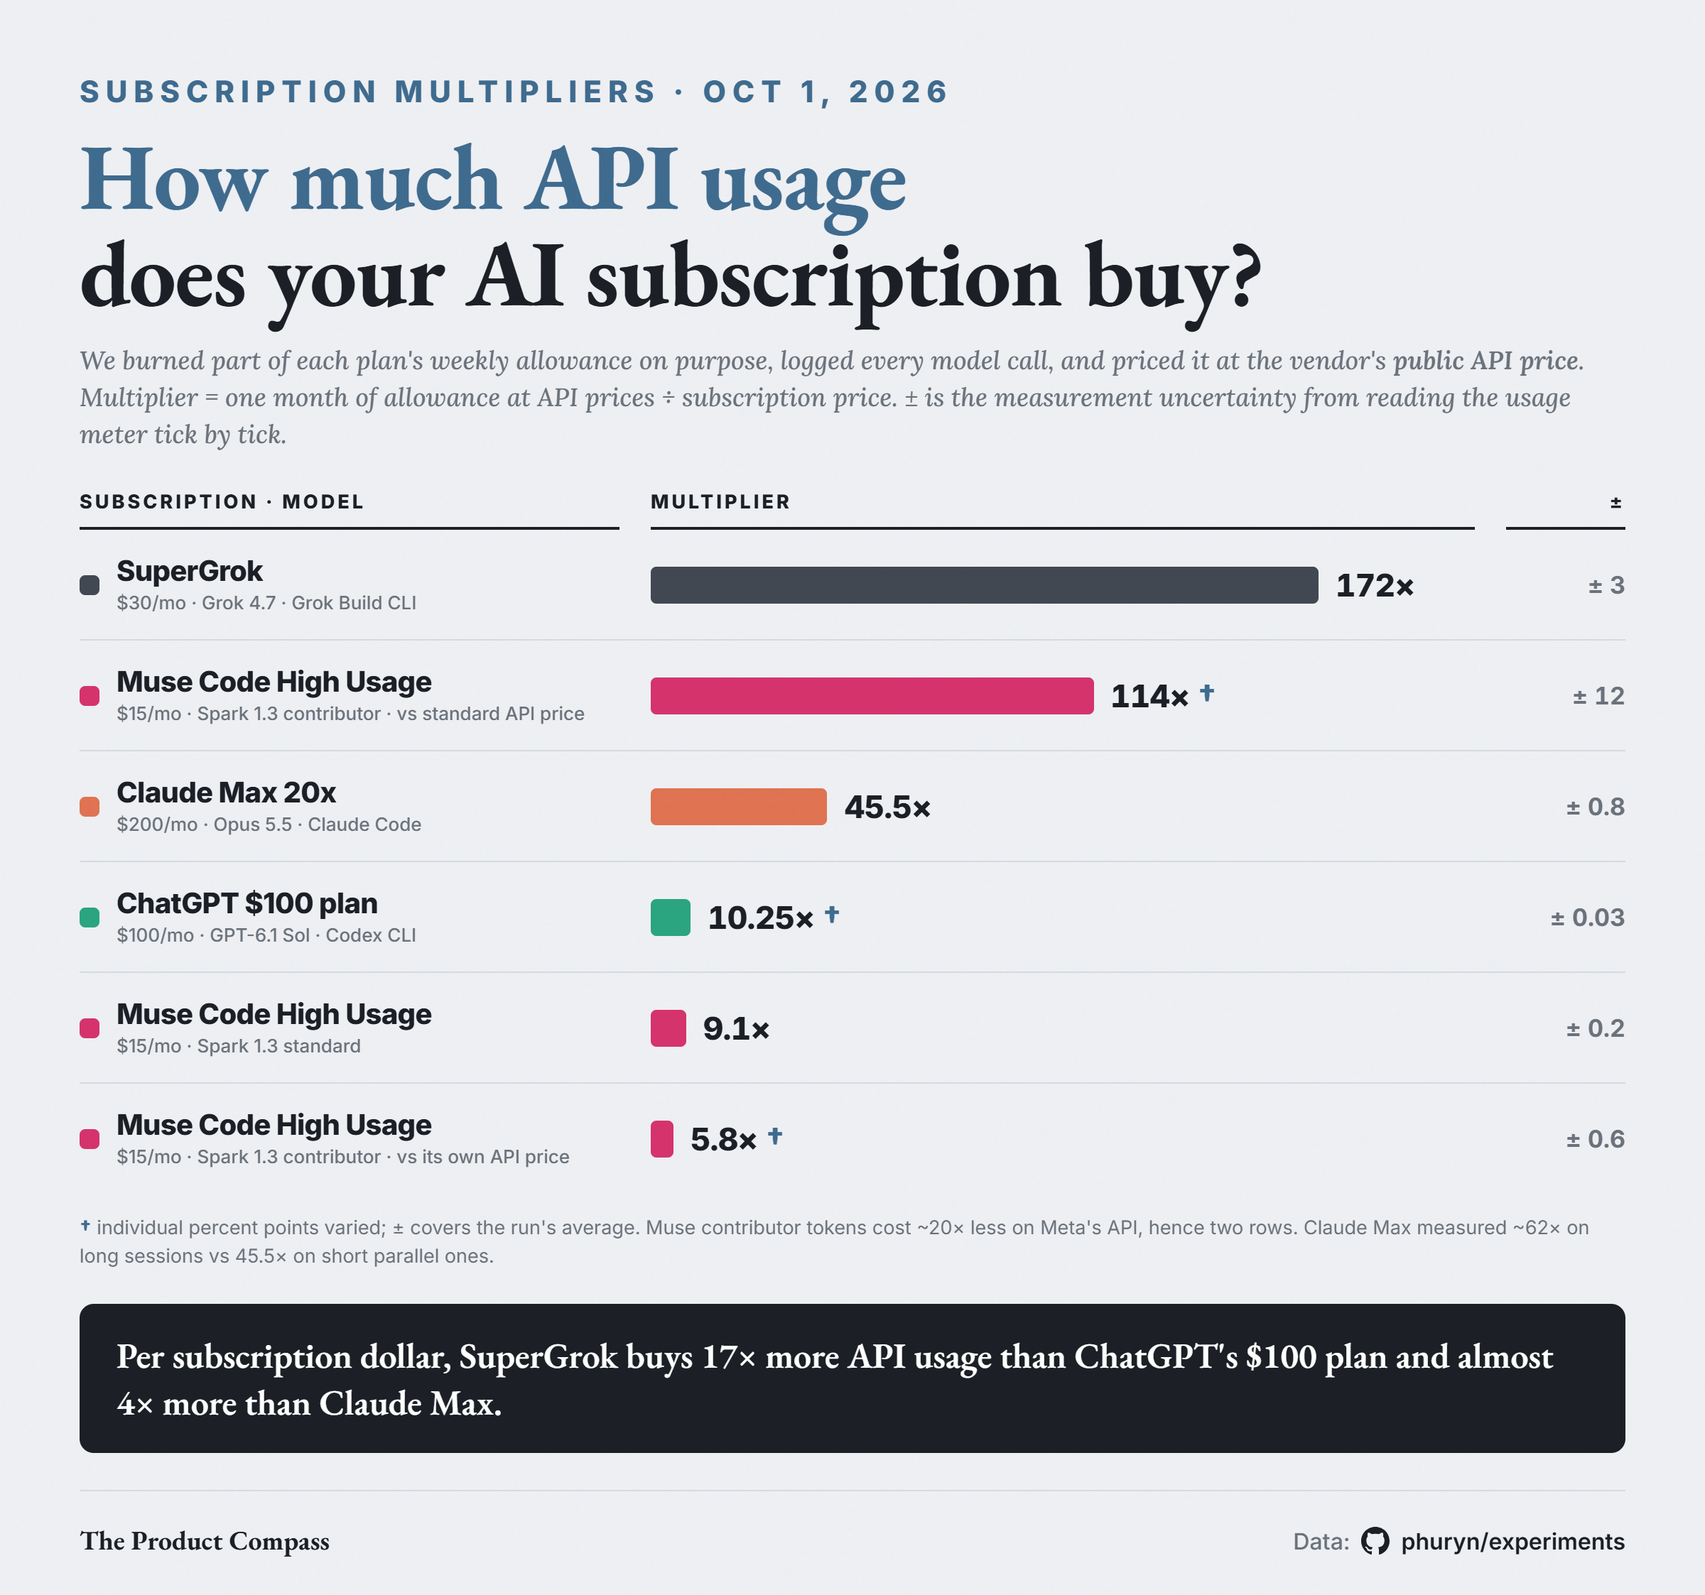
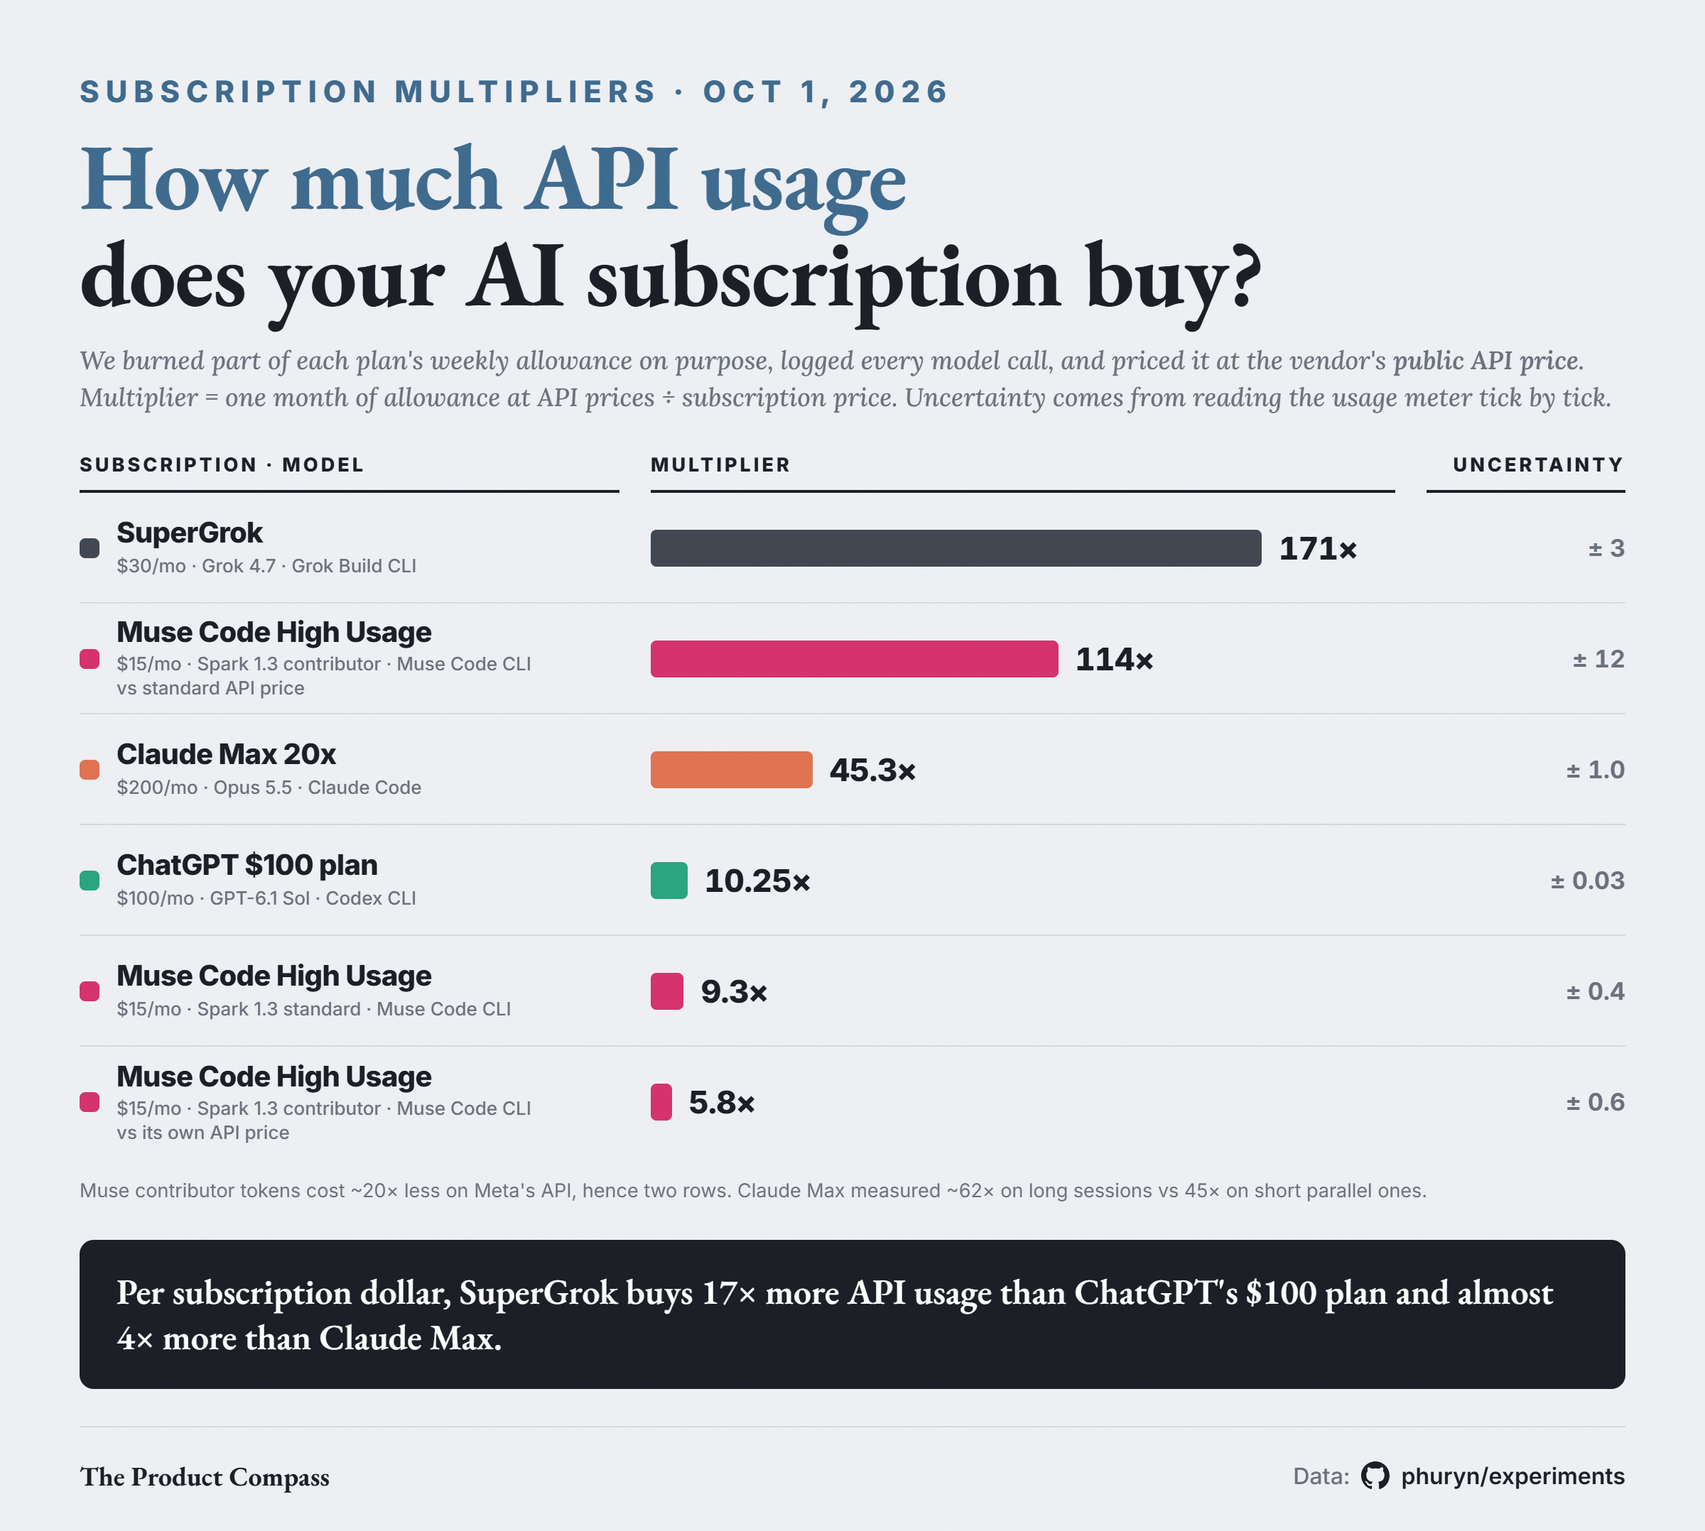
subscription-multipliers: one uncertainty rule for every row (whole-run bracket), column renamed Uncertainty, client named on every row

diff --git a/subscription-multipliers/README.md b/subscription-multipliers/README.md
@@ -2,20 +2,20 @@
 
 How much API usage does an AI coding subscription actually buy? For each plan we burned a slice of the weekly allowance on purpose, logged every model call, and priced those calls at the vendor's **public API list price**. The multiplier is what a full month of the allowance would cost on the API, divided by the subscription price.
 
-![Subscription multipliers: SuperGrok 172x, Muse contributor 114x vs standard API price, Claude Max 45.5x, ChatGPT $100 plan 10.25x, Muse standard 9.1x, Muse contributor 5.8x vs its own API price](subscription-multipliers.png)
+![Subscription multipliers: SuperGrok 171x, Muse contributor 114x vs standard API price, Claude Max 45.3x, ChatGPT $100 plan 10.25x, Muse standard 9.3x, Muse contributor 5.8x vs its own API price](subscription-multipliers.png)
 
-| Subscription · model | Price / month | Multiplier | ± |
+| Subscription · model | Price / month | Multiplier | Uncertainty |
 |---|---|---|---|
-| [SuperGrok · Grok 4.7](01-supergrok/) | $30 | **172×** | 3 |
-| [Muse Code High Usage · Spark 1.3 contributor — vs standard API price](04-muse-code/) | $15 | **114×** | 12 † |
-| [Claude Max 20x · Opus 5.5](02-claude-max/) | $200 | **45.5×** | 0.8 |
-| [ChatGPT $100 plan (Codex) · GPT-6.1 Sol](03-codex/) | $100 | **10.25×** | 0.03 † |
-| [Muse Code High Usage · Spark 1.3 standard](04-muse-code/) | $15 | **9.1×** | 0.2 |
-| [Muse Code High Usage · Spark 1.3 contributor — vs its own API price](04-muse-code/) | $15 | **5.8×** | 0.6 † |
+| [SuperGrok · Grok 4.7 · Grok Build CLI](01-supergrok/) | $30 | **171×** | ± 3 |
+| [Muse Code High Usage · Spark 1.3 contributor · Muse Code CLI — vs standard API price](04-muse-code/) | $15 | **114×** | ± 12 |
+| [Claude Max 20x · Opus 5.5 · Claude Code](02-claude-max/) | $200 | **45.3×** | ± 1.0 |
+| [ChatGPT $100 plan · GPT-6.1 Sol · Codex CLI](03-codex/) | $100 | **10.25×** | ± 0.03 |
+| [Muse Code High Usage · Spark 1.3 standard · Muse Code CLI](04-muse-code/) | $15 | **9.3×** | ± 0.4 |
+| [Muse Code High Usage · Spark 1.3 contributor · Muse Code CLI — vs its own API price](04-muse-code/) | $15 | **5.8×** | ± 0.6 |
 
 Measured Oct 1, 2026, each plan on its own, with other usage of that plan paused.
 
-**±** is the measurement uncertainty explained below. **†** means the individual percent points did not all cost the same, so ± covers the run's average, not every point: Codex points ranged 9.7–10.7×, and Muse contributor's cleanly measured points 4.0–5.0× (vs its own price).
+**Uncertainty** is the bracket on the run's average, explained below. Individual percent points can vary more than that (Codex's ranged 9.7–10.7×); every point is listed in each folder.
 
 **Contributor has two discounts that pull in opposite directions.** A Muse Code percent buys ~12× more contributor tokens than standard tokens, and Meta's API also sells contributor tokens ~20× cheaper ($0.10 / $0.002 / $0.20 per million vs $1.25 / $0.15 / $4.25). Against the private-data API price the plan is worth 114×; against contributor's own API price, 5.8×. Details in [04-muse-code](04-muse-code/).
 
@@ -23,10 +23,10 @@ Measured Oct 1, 2026, each plan on its own, with other usage of that plan paused
 
 | # | Plan | What was run | Headline |
 |---|---|---|---|
-| [01](01-supergrok/) | SuperGrok ($30) | Grok Build CLI, Grok 4.7 at xhigh, 5 parallel sessions describing images, weekly meter read every ~30 s | **172× ± 3** — a percent of the week is worth ~$11.90 of API usage |
-| [02](02-claude-max/) | Claude Max 20x ($200) | Claude Code `-p`, Opus 5.5, 6 parallel read-only sessions | **45.5× ± 0.8**; a long-session week measured separately came out at ~62× (cache reads dominate there) |
-| [03](03-codex/) | ChatGPT $100 plan | Codex CLI, GPT-6.1 Sol at high, 6 parallel read-only sessions | **10.25× ± 0.03** average; single points 9.7–10.7× |
-| [04](04-muse-code/) | Muse Code High Usage ($15) | Muse Code, Spark 1.3 standard and contributor, up to 8 parallel sessions | standard **9.1× ± 0.2**; contributor **5.8×** vs its own API price, **114×** vs standard's |
+| [01](01-supergrok/) | SuperGrok ($30) | Grok Build CLI, Grok 4.7 at xhigh, 5 parallel sessions describing images, weekly meter read every ~30 s | **171× ± 3** — a percent of the week is worth ~$11.80 of API usage |
+| [02](02-claude-max/) | Claude Max 20x ($200) | Claude Code `-p`, Opus 5.5, 6 parallel read-only sessions | **45.3× ± 1.0**; a long-session week measured separately came out at ~62× (cache reads dominate there) |
+| [03](03-codex/) | ChatGPT $100 plan | Codex CLI, GPT-6.1 Sol at high, 6 parallel read-only sessions | **10.25× ± 0.03**; single points 9.7–10.7× |
+| [04](04-muse-code/) | Muse Code High Usage ($15) | Muse Code, Spark 1.3 standard and contributor, up to 8 parallel sessions | standard **9.3× ± 0.4**; contributor **5.8×** vs its own API price, **114×** vs standard's |
 
 ## Shared method
 
@@ -37,7 +37,7 @@ Measured Oct 1, 2026, each plan on its own, with other usage of that plan paused
    - floor = spend from the first reading after tick k to the last reading before tick k+1 (certainly inside the step),
    - ceiling = spend from the last reading before tick k to the first reading after tick k+1 (certainly covers it).
    The same is computed once for the whole run (first tick to last tick).
-5. **Uncertainty = max floor … min ceiling.** If every point is worth the same, the true value is inside every bracket at once, i.e. between the highest floor and the lowest ceiling. The table shows the midpoint and half that width. When the highest floor is above the lowest ceiling the brackets cannot all be right, which means points genuinely differ; then the whole-run bracket is shown and marked †.
+5. **Uncertainty = the whole-run bracket.** The run's average value per point lies between the whole-run floor and ceiling; the table shows the midpoint and half that width. This holds whether or not individual points cost the same, so it is used for every row. As a consistency check, each folder also reports the per-step brackets and their max floor … min ceiling: where those intersect, every point is consistent with one constant value (Grok, Claude, Muse standard); where they don't, points genuinely differ (Codex narrowly, Muse contributor clearly).
 6. **Multiplier** = $ per point × 100 × (30.4375 / 7 weeks per month) ÷ monthly price.
 
 Readings from parallel sessions can arrive out of order; a reading lower than one already seen is a stale observation and is dropped. Everything above is [`analyze.py`](analyze.py) — run `python analyze.py <experiment>/results <price>` on any folder to reproduce its numbers. [`extract_logs.py`](extract_logs.py) is how the CSVs were cut from each client's local logs.
@@ -45,7 +45,7 @@ Readings from parallel sessions can arrive out of order; a reading lower than on
 ## Caveats that apply to the whole set
 
 - **A multiplier assumes you can use the whole week.** Claude and Muse also have a 5-hour window. On Muse standard it binds hard: a full 5-hour window was worth only ~$10 of API usage.
-- **Workload moves the number.** Vendors don't meter exactly in API dollars. On Claude, the same plan measured 45.5× on short parallel sessions (60% of API cost was 5-minute cache writes) and ~62× over a week of long sessions (78% cache reads). Read each multiplier as "for this kind of work".
+- **Workload moves the number.** Vendors don't meter exactly in API dollars. On Claude, the same plan measured 45× on short parallel sessions (60% of API cost was 5-minute cache writes) and ~62× over a week of long sessions (78% cache reads). Read each multiplier as "for this kind of work".
 - **Usage off the machine is invisible.** Claude's and Grok's meters are shared with their web apps and other devices; those were paused for the runs, but a stray use would make a plan look *less* generous, never more.
 - **One run per plan, a few points each** (2–6 full steps). The brackets say how tight each measurement is; they don't say the vendor won't change its meter next week.
 - **List price is what an API user would pay**, so internal per-call cost fields some clients print (Grok's is one third of list) are not used.

diff --git a/subscription-multipliers/04-muse-code/README.md b/subscription-multipliers/04-muse-code/README.md
@@ -30,8 +30,8 @@ How much Muse Spark API usage does the Muse Code High Usage weekly allowance buy
 | 16% → 17% | $0.23 | $0.67 | 6.7× – 19.4× |
 | 17% → 18% | $0.23 | $0.50 | 6.5× – 14.5× |
 | 18% → 19% | $0.31 | $0.33 | 8.9× – 9.7× |
-| Whole run 14% → 19% | $0.31 / pt | $0.33 / pt | 8.9× – 9.6× |
-| **Max floor … min ceiling** | | | **8.9× – 9.3× → 9.1× ± 0.2** |
+| **Whole run 14% → 19%** | **$0.31 / pt** | **$0.33 / pt** | **8.9× – 9.6× → 9.3× ± 0.4** |
+| Max floor … min ceiling (consistency check) | | | 8.9× – 9.3× (intersect) |
 
 ### Contributor — `results/contributor/` (175 readings, 1,178 calls; $1.57 at contributor price, $30.75 at standard price)
 
@@ -45,15 +45,15 @@ How much Muse Spark API usage does the Muse Code High Usage weekly allowance buy
 | 12% → 13% | 4.3× – 4.7× | 79× – 86× |
 | **Whole run 6% → 13%** | **5.2× – 6.4× → 5.8× ± 0.6** | **102× – 126× → 114× ± 12** |
 
-The contributor brackets do **not** all intersect: the three cleanly read steps (4.0–5.0× at contributor price) sit below the whole-run bracket. The table reports the whole-run bracket.
+Consistency check: the contributor brackets do **not** all intersect. The three cleanly read steps (4.0–5.0× at contributor price) sit below the whole-run bracket, so points varied; the uncertainty above is on the run's average.
 
 ## Findings
 
-1. **Standard: one percent of the week bought ~$0.32 of Spark 1.3 at API prices; a month ≈ $137 for $15.** That is 9.1× ± 0.2.
+1. **Standard: one percent of the week bought ~$0.32 of Spark 1.3 at API prices; a month ≈ $140 for $15.** That is 9.3× ± 0.4.
 2. **Contributor comes with two discounts that pull in opposite directions.**
    - *Plan discount:* a percent of the week buys **~12× more tokens** on contributor than on standard (valued at the same standard price: $3.51–4.35 vs $0.31–0.33 per point).
    - *API discount:* Meta also sells contributor tokens **~20× cheaper** on its API (for this run's token mix: $30.75 at standard price vs $1.57 at contributor price).
-   - Result: **114×** against what the same work costs on the private-data API; **5.8×** against contributor's own API price. If you are willing to share your data, paying per token for contributor is the better deal; if you are not, contributor is not an option on the API at standard price, and standard on the plan is 9.1×.
+   - Result: **114×** against what the same work costs on the private-data API; **5.8×** against contributor's own API price. If you are willing to share your data, paying per token for contributor is the better deal; if you are not, contributor is not an option on the API at standard price, and standard on the plan is 9.3×.
 3. **The 5-hour window is the real limit on standard.** It rose 22 points while the weekly rose 6: a full 5-hour window was worth ~$10 of standard API usage. On contributor it was ~$5–6 at contributor price.
 
 ## Caveats

diff --git a/README.md b/README.md
@@ -10,7 +10,7 @@ One line each — the full story (method, every wave, caveats) is in each set's 
 
 | Set | One-line result | Date | Source post |
 |---|---|---|---|
-| [subscription-multipliers/](subscription-multipliers/) | **How much API usage does an AI subscription buy?** Each plan's weekly meter burned on purpose and every call priced at public API rates: **SuperGrok 172× its price, Claude Max 45.5×, ChatGPT's $100 plan (Codex) 10.25×, Muse Code 9.1× (standard)**; Muse's contributor model is 114× against standard API pricing but 5.8× against its own. Uncertainty from tick-to-tick floor/ceiling brackets on the usage meter. | Oct 1, 2026 | — |
+| [subscription-multipliers/](subscription-multipliers/) | **How much API usage does an AI subscription buy?** Each plan's weekly meter burned on purpose and every call priced at public API rates: **SuperGrok 171× its price, Claude Max 45×, ChatGPT's $100 plan (Codex) 10.25×, Muse Code 9.3× (standard)**; Muse's contributor model is 114× against standard API pricing but 5.8× against its own. Uncertainty from tick-to-tick floor/ceiling brackets on the usage meter. | Oct 1, 2026 | — |
 | [jev-decisions-api/](jev-decisions-api/) | **Is TypeSafe's Jev decision model actually cheaper and better?** Its own showcase task (invoice classification), hardened to 50 documents with 32 built so the surface cue lies: **Jev 50/50 at $0.025 per 1,000 decisions — and Claude Haiku 4.5 also 50/50, two self-hostable open models at 48/50 for 1.2–1.25x, and Opus 5 at 115x one answer behind.** The circulating "hundreds of times cheaper" figures are a property of the denominator. Strip the written definitions out and every one of Jev's errors lands below 0.80 confidence, so a 0.80 auto-approve cut passes nothing wrong; but give it a house rule it was never told and it is wrong 19 times in 24, **15 of those above 0.90 confidence**. | Sep 19, 2026 | — |
 | [ai-slop-bench/](ai-slop-bench/) | **Which model writes the most AI slop?** 12 models, 3 bare-prompt writing tasks, 108 texts, every pair judged blind in both orders by 4 judge models with vendor recusal: **Fable 5.1 picked as the AI text 14% of the time, Gemini 3.8 Flash 77%**; 1,647 judgments, 30% discarded as order flips; the judges never picked a human post over a model's (0 of 355). Every text and every raw judge response is in the folder. | Sep 7, 2026 | [X](https://x.com/PawelHuryn/status/2096885584153186390) |
 | [stealth-ox-alpha-fingerprint/](stealth-ox-alpha-fingerprint/) | OpenRouter's free `stealth/ox-alpha` slug unmasked from the wire, no benchmark — tokenizer, six special-token deltas, model card and recovered system prompt all match Z.ai's GLM. **It is GLM-5.3-Flash.** | Aug 24, 2026 | — |

diff --git a/subscription-multipliers/02-claude-max/README.md b/subscription-multipliers/02-claude-max/README.md
@@ -30,14 +30,14 @@ How much Claude API usage does the Max 20x weekly allowance buy, priced at Anthr
 | 7% → 8% | $16.59 | $21.54 | 36.1× – 46.8× |
 | 8% → 9% | $20.58 | $25.75 | 44.7× – 56.0× |
 | 9% → 10% | $19.38 | $21.96 | 42.1× – 47.7× |
-| Whole run 6% → 10% | $20.41 / pt | $21.29 / pt | 44.4× – 46.3× |
-| **Max floor … min ceiling** | | | **44.7× – 46.3× → 45.5× ± 0.8** |
+| **Whole run 6% → 10%** | **$20.41 / pt** | **$21.29 / pt** | **44.4× – 46.3× → 45.3× ± 1.0** |
+| Max floor … min ceiling (consistency check) | | | 44.7× – 46.3× (intersect) |
 
 Cost composition at list price: 5-minute cache writes 60%, cache reads 36%, 1-hour cache writes 4%, output 1%, uncached input <1%.
 
 ## Findings
 
-1. **One percent of the Max 20x week bought ~$21 of Opus 5.5 at API prices; a full month ≈ $9,100 for $200.** That is 45.5× ± 0.8.
+1. **One percent of the Max 20x week bought ~$21 of Opus 5.5 at API prices; a full month ≈ $9,060 for $200.** That is 45.3× ± 1.0.
 2. **The number depends on the kind of work.** The same account measured over a week of long interactive sessions, mostly Sonnet 5.5, came out at ~62× (28 full steps, 61.6–61.8× over the whole span). There, 78% of the API cost was cache reads and 18% 1-hour cache writes. That data comes from private sessions and is not published here. Read together, Anthropic's meter appears to charge cache reads at less than their API weight: long sessions that mostly re-read cached context get more out of the plan than many short parallel sessions that keep writing new cache.
 
 ## Caveats

diff --git a/subscription-multipliers/01-supergrok/README.md b/subscription-multipliers/01-supergrok/README.md
@@ -25,12 +25,12 @@ How much Grok API usage does the SuperGrok weekly allowance buy, priced at xAI's
 |---|---|---|---|
 | 25% → 26% | $11.68 | $12.35 | 169.3× – 179.0× |
 | 26% → 27% | $11.09 | $12.16 | 160.7× – 176.3× |
-| Whole run 25% → 27% | $11.60 / pt | $12.04 / pt | 168.2× – 174.5× |
-| **Max floor … min ceiling** | | | **169.3× – 174.5× → 172× ± 3** |
+| **Whole run 25% → 27%** | **$11.60 / pt** | **$12.04 / pt** | **168.2× – 174.5× → 171× ± 3** |
+| Max floor … min ceiling (consistency check) | | | 169.3× – 174.5× (intersect) |
 
 ## Findings
 
-1. **One percent of SuperGrok's week bought ~$11.90 of Grok 4.7 at API prices; a full month of allowance ≈ $5,150 for $30.** That is 172× ± 3.
+1. **One percent of SuperGrok's week bought ~$11.80 of Grok 4.7 at API prices; a full month of allowance ≈ $5,130 for $30.** That is 171× ± 3.
 2. **Grok's meter was the most linear of the plans measured.** Both full steps and the whole run agree inside a 5-point band.
 
 ## Caveats

diff --git a/subscription-multipliers/03-codex/README.md b/subscription-multipliers/03-codex/README.md
@@ -27,7 +27,7 @@ How much GPT-6.1 Sol API usage does the $100 ChatGPT plan's Codex allowance buy,
 | 11% → 12% | $2.24 | $2.29 | 9.7× – 9.9× |
 | **Whole run 8% → 12%** | **$2.35 / pt** | **$2.36 / pt** | **10.22× – 10.28× → 10.25× ± 0.03** |
 
-The step brackets do **not** all intersect (highest floor 10.5×, lowest ceiling 9.9×): individual points are worth slightly different amounts. The table reports the whole-run bracket.
+Consistency check: the step brackets do **not** all intersect (highest floor 10.5×, lowest ceiling 9.9×), so individual points are worth slightly different amounts. The uncertainty above is on the run's average.
 
 ## Findings
 
